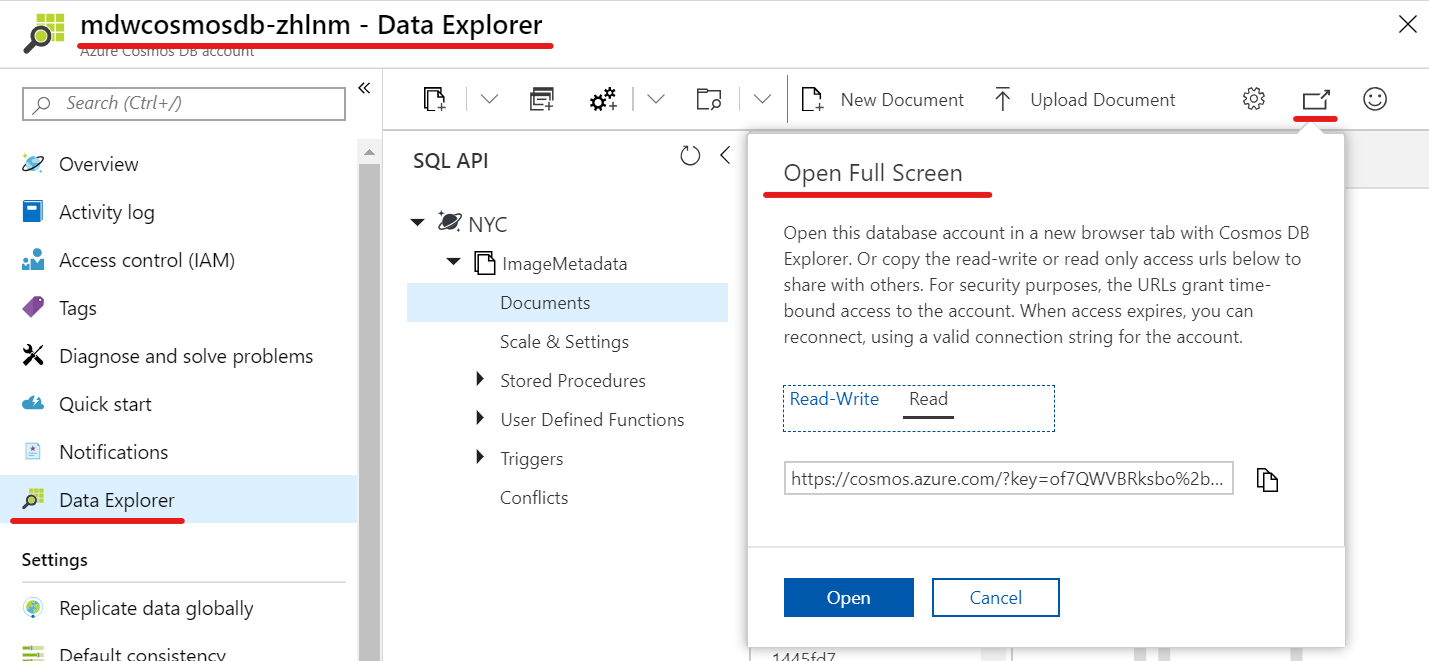
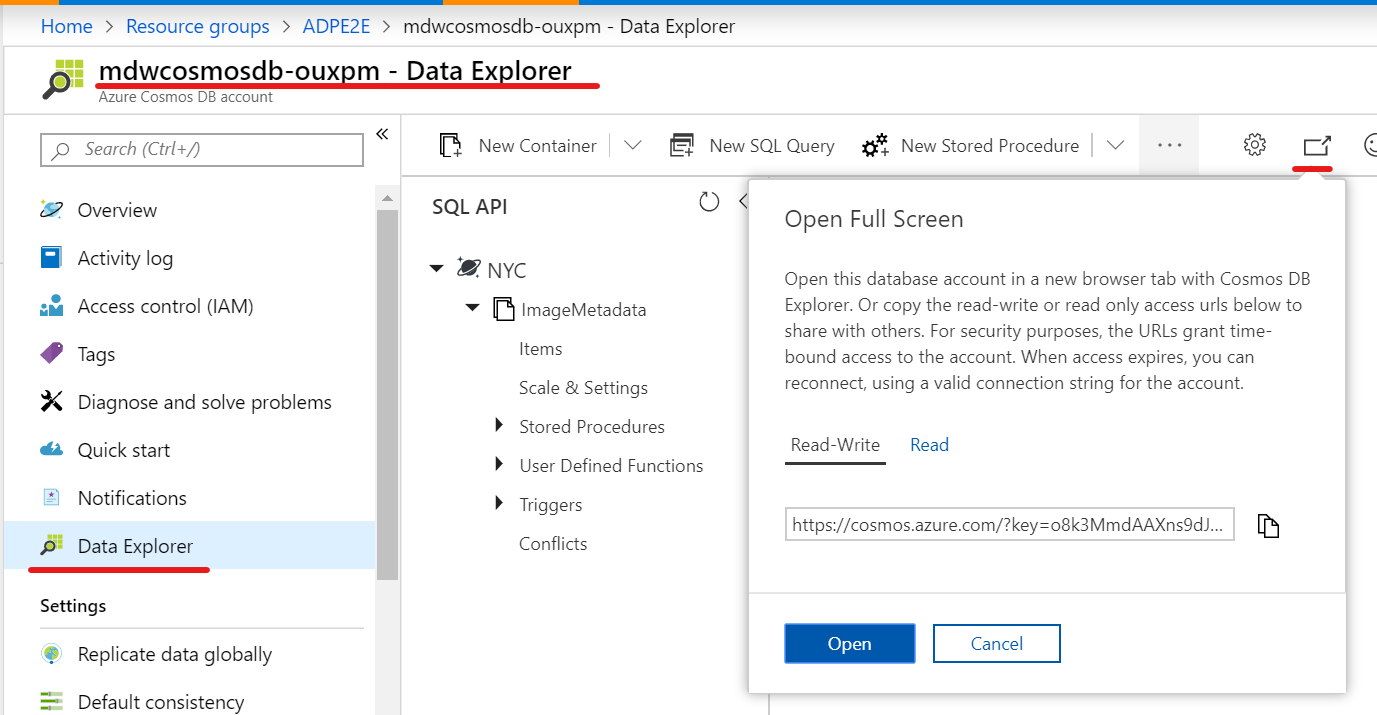
Screnshot Fixes
Screenshot and JSON code fixes.

Changed region(s): [[0.0, 0.0, 1.0, 1.0], [0.0, 0.9682, 0.1874, 1.0]]

diff --git a/Lab/Lab5/Lab5.md b/Lab/Lab5/Lab5.md
@@ -19,16 +19,12 @@ Step     | Description
 ![](./Media/Orange5.png) | Send stream of Tweet messages to Stream Analytics for real-time analytics (hot path)
 ![](./Media/Orange6.png) | Visualize real-time data generated by Stream Analytics with Power BI
 
-**IMPORTANT**: Some of the Azure services provisioned require globally unique name and a “-suffix” has been added to their names to ensure this uniqueness. Please take note of the suffix generated as you will need it for the following resources:
+**IMPORTANT**: Some of the Azure services provisioned require globally unique name and a “-suffix” has been added to their names to ensure this uniqueness. Please take note of the suffix generated as you will need it for the following resources in this lab:
 
 Name	                     |Type
 -----------------------------|--------------------
-mdwcosmosdb-*suffix*	     |Cosmos DB account
-MDWDataFactory-*suffix*	     |Data Factory (V2)
 mdwdatalake*suffix*	         |Storage Account
 MDWEventHubs-*suffix*	     |Event Hubs Namespace
-MDWKeyVault-*suffix*	     |Key vault
-mdwsqlvirtualserver-*suffix* |SQL server
 MDWStreamAnalytics-*suffix*	 |Stream Analytics job
 
 # Create NYCTweets Container in Azure Blob Storage
@@ -170,7 +166,7 @@ In this section you will create a Logic App to invoke the Twitter API and retrie
 
     ![](./Media/Lab5-Image21.png)
 
-    **IMPORTANT**: Please pay special attention to the correct JSON format described as it will impact future lab steps involving Event Hubs and Stream Analytics. Note the " *(double-quotes)* surrounding each JSON element name and also the **CreatedAt** and **TweetText** element values. **TweetID** and **SentimentScore** element values do not need " *(double-quotes)*.
+    **IMPORTANT**: Please pay special attention to the correct JSON format described as it will impact future lab steps involving Event Hubs and Stream Analytics. Note the " *(double-quotes)* surrounding each JSON element name and also the **CreatedAt** and **TweetText** element values. **TweetID** and **SentimentScore** element values **do not** need " *(double-quotes)*.
 
 Alternatively you can copy and paste the JSON definition below:
 ```json

diff --git a/README.md b/README.md
@@ -32,9 +32,10 @@ New York City data used in this lab was obtained from the New York City Open Dat
 ## Lab Prerequisites and Deployment
 The following prerequisites must be completed before you start these labs:
     <br>- You must be connected to the internet;
-    <br>- You must have an Azure account with administrator- or controbutor-level access to your subscription. If you don’t have an account, you can sign up for free following the instructions here: https://azure.microsoft.com/en-au/free/
+    <br>- You must have an Azure account with administrator- or contributor-level access to your subscription. If you don’t have an account, you can sign up for free following the instructions here: https://azure.microsoft.com/en-au/free/
     <br>- Lab 5 requires you to have a Twitter account. If you don’t have an account you can sign up for free following the instructions here: https://twitter.com/signup. 
     <br>- Lab 5 requires you to have a Power BI Pro account. If you don’t have an account you can sign up for a 60-day trial for free here: https://powerbi.microsoft.com/en-us/power-bi-pro/
+    <br>- The approximate cost to run the resources provisioned  for the estimated duration of this workshop (2 days) is around USD 150.00. You can minimise the costs by turning off MDWSQLServer and MDWDataGateway VMs and also the MDWASQLDW Azure SQL Data Warehouse after Lab 2 as they are no longer required for the remaining labs.
 
 ## Lab Guide
 

diff --git a/Lab/Lab4/Lab4.md b/Lab/Lab4/Lab4.md
@@ -15,7 +15,7 @@ Step     | Description
 ![](./Media/Blue5.png) | Copy metadata JSON documents into your Cosmos DB database
 ![](./Media/Blue6.png) | Visualize images and associated metadata using Power BI
 
-**IMPORTANT**: Some of the Azure services provisioned require globally unique name and a “-suffix” has been added to their names to ensure this uniqueness. Please take note of the suffix generated as you will need it for the following resources:
+**IMPORTANT**: Some of the Azure services provisioned require globally unique name and a “-suffix” has been added to their names to ensure this uniqueness. Please take note of the suffix generated as you will need it for the following resources in this lab:
 
 Name	                     |Type
 -----------------------------|--------------------
@@ -576,7 +576,7 @@ In this section you will explore the image metadata records generated by the Azu
 
     ![](./Media/Lab4-Image62.png)
 
-4.	On the **Azure Cosmos DB Data Explorer window**, under **NYC > ImageMetadata** click **Documents** to see the full list of documents in the collection.
+4.	On the **Azure Cosmos DB Data Explorer window**, under **NYC > ImageMetadata** click **Items** to see the full list of documents in the collection.
 
 5.	Click any document in the list to see its contents.
 

diff --git a/Lab/Lab2/Lab2.md b/Lab/Lab2/Lab2.md
@@ -603,7 +603,7 @@ In this section you create a data factory pipeline to copy data in the follwng s
                     "storedProcedureName": "[Staging].[spNYCLoadTaxiDataSummary]"
                 },
                 "linkedServiceName": {
-                    "referenceName": "MDWSQLVirtualServer_MDWASQLDW",
+                    "referenceName": "MDWVirtualSQLServer_MDWASQLDW",
                     "type": "LinkedServiceReference"
                 }
             }
